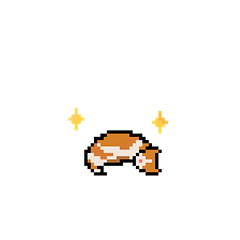
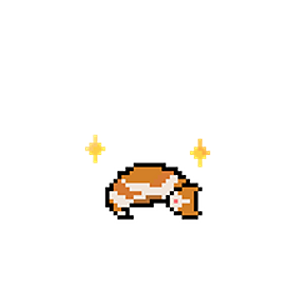
Service worker cache is working ig Responsiveness fixed Began to implement push notifs

diff --git a/src/app/Components/catagotchi/catagotchi.component.ts b/src/app/Components/catagotchi/catagotchi.component.ts
@@ -62,7 +62,7 @@ export class CatagotchiComponent {
   }
 
   // Adjust Overlay
-  overlayImages: Array<{ src: string; alt: string; originalTop: number; originalScale: number; top: string }> = [];
+  overlayImages: Array<{ src: string; alt: string;}> = [];
   updateOverlay () {
     const level = this.level;
     let src = '';
@@ -73,10 +73,7 @@ export class CatagotchiComponent {
       alt = 'Your small kitten (Level 1)';
       this.overlayImages = [{
         src,
-        alt,
-        originalTop: 40.55,
-        originalScale: 1.1,
-        top: '40.55%'
+        alt
       }];
     }
     else if (level >= 20 && level < 50) {
@@ -84,10 +81,7 @@ export class CatagotchiComponent {
       alt = 'Your kitten (Level 2)';
       this.overlayImages = [{
         src,
-        alt,
-        originalTop: 40.55,
-        originalScale: 1.1,
-        top: '40.55%'
+        alt
       }];
     }
     else if (level >= 50 && level <= 99) {
@@ -95,10 +89,7 @@ export class CatagotchiComponent {
       alt = 'Your bigger kitten (Level 3)';
       this.overlayImages = [{
         src,
-        alt,
-        originalTop: 40.55,
-        originalScale: 1.1,
-        top: '40.55%'
+        alt
       }];
     }
     else if (level == 100) {
@@ -106,10 +97,7 @@ export class CatagotchiComponent {
       alt = 'Your adult grown cat (Level 4)';
       this.overlayImages = [{
         src,
-        alt,
-        originalTop: 40.55,
-        originalScale: 1.1,
-        top: '40.55%'
+        alt
       }];
     }
 
@@ -225,6 +213,5 @@ export class CatagotchiComponent {
       error: (error) => console.error("Failed to pet cat", error)
     });
   }
-
 
 }

diff --git a/src/app/Backend/Routes/push-notifications.js b/src/app/Backend/Routes/push-notifications.js
@@ -1,0 +1,38 @@
+const express = require('express');
+const router = express.Router();
+const webPush = require('web-push');
+
+// vapid keys
+const vapidPublicKey = 'BEjhM6DDoUxspPqxIGOX8WZCQ7-Pw3ZOOrxHfWpPZyDpbgTj5xZb1Ei22wz62FbtskApfsfYgoEyutbCFBBajkE';
+const vapidPrivateKey = 'if6Pyjuax2Q8fdDrW_9K_AASSp-zqp_WkxQIR6_N-7A';
+webPush.setVapidDetails(
+  'mailto:vapid@catagotchi.com',
+  vapidPublicKey,
+  vapidPrivateKey
+);
+
+let subscriptions = [];
+
+router.post('/subscribe', (req, res) => {
+  const subscription = req.body;
+  subscriptions.push(subscription); // Consider saving this in a persistent database
+  res.status(201).json({ message: 'Subscription added.' });
+});
+
+router.post('/notify', (req, res) => {
+  const notificationPayload = {
+    notification: {
+      title: 'New Notification',
+      body: 'This is the body of the notification.',
+      icon: '/browser/assets/icons/icon-512x512.png',
+    },
+  };
+
+  const promises = subscriptions.map(sub => webPush.sendNotification(sub, JSON.stringify(notificationPayload))
+    .catch(err => console.error("Error sending notification, error is: ", err)));
+
+  Promise.all(promises).then(() => res.sendStatus(200))
+    .catch(err => res.sendStatus(500));
+});
+
+module.exports = router;

diff --git a/src/index.html b/src/index.html
@@ -10,7 +10,16 @@
   <link href="https://fonts.googleapis.com/icon?family=Material+Icons" rel="stylesheet">
   <link rel="manifest" href="manifest.webmanifest">
   <meta name="theme-color" content="#1976d2">
+
+  <!-- Favicon etc. styles -->
+  <link rel="apple-touch-icon" sizes="180x180" href="/assets/icons/apple-touch-icon.png">
+  <link rel="mask-icon" href="/assets/icons/safari-pinned-tab.svg" color="#a1aaec">
+  <meta name="apple-mobile-web-app-title" content="Cozy Cat Corner">
+  <meta name="application-name" content="Cozy Cat Corner">
+  <meta name="msapplication-TileColor" content="#b989f9">
+
 </head>
+
 <body class="mat-typography">
   <app-root></app-root>
   <noscript>Please enable JavaScript to continue using this application.</noscript>

diff --git a/src/app/Backend/server.js b/src/app/Backend/server.js
@@ -3,6 +3,7 @@ const path = require('path');
 const bodyParser = require('body-parser');
 const userRoutes = require('./Routes/user-routes.js');
 const catRoutes = require('./Routes/cat-routes.js');
+const pushNotificationRoutes = require('./Routes/push-notifications.js');
 const express = require('express');
 const cookieParser = require('cookie-parser');
 const sessions = require('express-session');
@@ -58,3 +59,4 @@ app.use((req, res, next) => {
 // API Routen (register user router as /api/users)
 app.use('/api/users', userRoutes)
 app.use('/api/cat', catRoutes)
+app.use('/api', pushNotificationRoutes);

diff --git a/src/app/Components/catagotchi/catagotchi.component.scss b/src/app/Components/catagotchi/catagotchi.component.scss
@@ -69,8 +69,7 @@ nav {
   .dropdown-menu:hover .menu-button {background-color: #f6757a;}
 
   .overlay-image {
-    top: 40.55%;
-    left: 29%;
+    top: 43.55%;
   }
 
   .progressbarholder-row {
@@ -98,12 +97,10 @@ nav {
   }
 
   .overlay-image {
-    top: 21%;
-    left: 10%;
+    top: 28%;
   }
 
   .progressbarholder-row {
-
     margin-top: 5px;
   }
 
